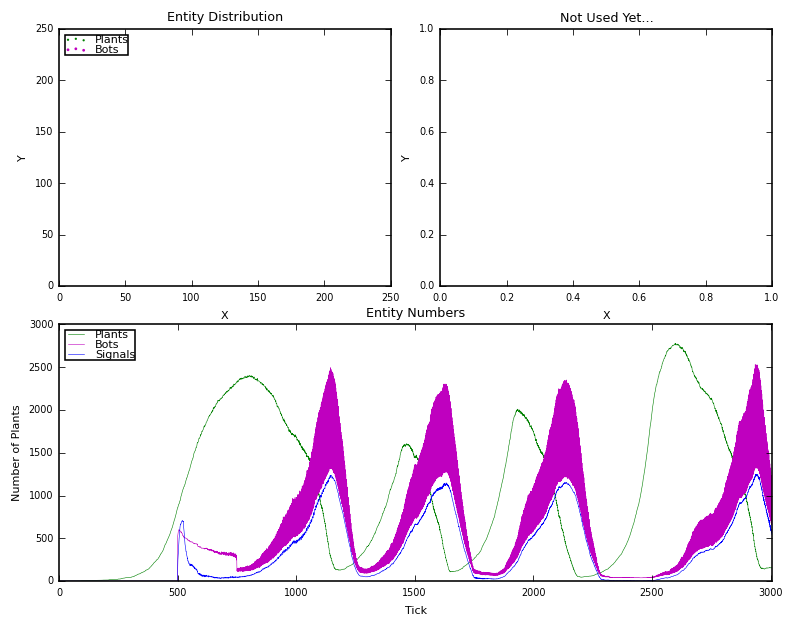
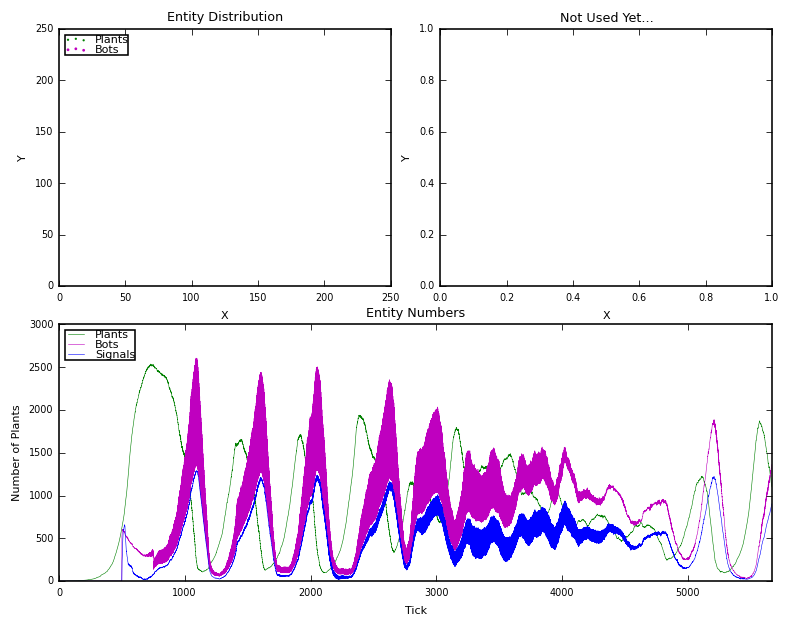
Color Coded Signals and Simulation Pausing
Signals can now take a color argument.
The simulation can now be paused with the spacebar.

diff --git a/simulation.py b/simulation.py
@@ -410,41 +410,44 @@ class GraphicalSimulation:
                 self.world.add_entity(Bot(self.world.half_boundaries[0], self.world.half_boundaries[1], 250, behavior))
             else:
                 self.world.add_entity(Bot(screen_width//2, screen_height//2, 250, behavior))
+        paused = False
+        # TODO: Account for paused time in the SimulationData results
         while running:
             for event in pygame.event.get():
                 if event.type == pygame.QUIT:
                     running = 0
                 elif event.type == pygame.KEYDOWN and event.key == pygame.K_ESCAPE:
                     running = 0
+                elif event.type == pygame.KEYDOWN and event.key == pygame.K_SPACE:
+                    paused = False if paused else True
             screen.fill((0, 0, 0))
             # Update the world
-            self.world.step()
-            # Collect Data if enabled
-            if sim_data:
-                sim_data.poll_world_for_data()
-            # Draw the plants and bots
-            pixels = pygame.surfarray.pixels3d(screen)
-            for entity_list, color in [(self.world.plants, (40, 200, 40)), (self.world.bots, (150, 40, 150))]:
-                for entity in entity_list:
-                    if 0 <= entity.x < screen_width and 0 <= entity.y < screen_height:
-                        pixels[entity.x][entity.y] = color
-                    # pygame.draw.ellipse(screen, color, (x, y, 1, 1))
-            del pixels
-            screen.lock()
-            for signal in self.world.signals:
-                diameter = signal.diameter
-                left = signal.x - (diameter/2)
-                top = signal.y - (diameter/2)
-                signal_color = (40, 50, 200)
-                if isinstance(signal, StaticSignal):
-                    signal_color = (100, 130, 250)
-                pygame.draw.ellipse(screen, signal_color, (left, top, diameter, diameter), 1)
-            screen.unlock()
-            if scale > 1:
-                pygame.transform.scale(screen, (window_width, window_height), window)
-            else:
-                window.blit(screen, (0, 0))
-            tick += 1
+            if not paused:
+                self.world.step()
+                # Collect Data if enabled
+                if sim_data:
+                    sim_data.poll_world_for_data()
+                # Draw the plants and bots
+                pixels = pygame.surfarray.pixels3d(screen)
+                for entity_list, color in [(self.world.plants, (40, 200, 40)), (self.world.bots, (150, 40, 150))]:
+                    for entity in entity_list:
+                        if 0 <= entity.x < screen_width and 0 <= entity.y < screen_height:
+                            pixels[entity.x][entity.y] = color
+                        # pygame.draw.ellipse(screen, color, (x, y, 1, 1))
+                del pixels
+                screen.lock()
+                for signal in self.world.signals:
+                    diameter = signal.diameter
+                    left = signal.x - (diameter/2)
+                    top = signal.y - (diameter/2)
+                    signal_color = signal.color if signal.color else (75, 75, 75)
+                    pygame.draw.ellipse(screen, signal_color, (left, top, diameter, diameter), 1)
+                screen.unlock()
+                if scale > 1:
+                    pygame.transform.scale(screen, (window_width, window_height), window)
+                else:
+                    window.blit(screen, (0, 0))
+                tick += 1
             pygame.display.update()
             self.clock.tick(fps)
             # If we have no more entities then end the simulation
@@ -467,4 +470,5 @@ def run_simulation(world, plant_growth_ticks, additional_ticks, graphics=False, 
 if __name__ == '__main__':
     print("Starting Simulation...")
     earth = World(boundary_sizes=(250, 250), energy_pool=100000)
+    # TODO: Create a Simulation and SimulationParameters class
     run_simulation(earth, 500, 5000, graphics=True, fps=60, scale=2, random_bots=True)

diff --git a/sim_entities.py b/sim_entities.py
@@ -86,7 +86,7 @@ class Bot(BaseSimulationEntity):
     @statement
     def launch_signal(bot):
         # TODO: Make signal creation not require passing 0 and setting energy with a World method
-        bot.signal = MobileSignal(bot.x, bot.y, np.random.ranf()*2*math.pi, 0, bot)
+        bot.signal = MobileSignal(bot.x, bot.y, np.random.ranf()*2*math.pi, 0, bot, color=(60, 60, 190))
         bot.world.transfer_energy_between_entities(10, donor=bot, recipient=bot.signal)
 
     @staticmethod
@@ -134,7 +134,7 @@ class Bot(BaseSimulationEntity):
     def eat_nearby_plants(bot):
         if bot.signal:
             bot.signal.dead = True
-        bot.signal = StaticSignal(bot.x, bot.y, 0, bot)
+        bot.signal = StaticSignal(bot.x, bot.y, 0, bot, color=(120, 240, 130))
         bot.world.transfer_energy_between_entities(3, donor=bot, recipient=bot.signal)
         bot.signal.step()
         if bot.signal.detected_objects:
@@ -193,13 +193,14 @@ class Plant(BaseSimulationEntity):
 class Signal(BaseSimulationEntity):
     counter = 0
 
-    def __init__(self, x, y, energy, owner, name=None):
+    def __init__(self, x, y, energy, owner, name=None, color=None):
         super().__init__(x, y, energy)
         self.owner = owner
         self.world = owner.world
         self.detected_objects = []
         self.diameter = 8
         self.speed = 0
+        self.color = color
         Signal.counter += 1
         if name:
             self.name = name
@@ -223,8 +224,8 @@ class Signal(BaseSimulationEntity):
 
 # TODO: Ingest Static and Mobile Signal into Signal. Let Bots toggle the speed and other properies.
 class StaticSignal(Signal):
-    def __init__(self, x, y, energy, owner, name=None):
-        super().__init__(x, y, energy, owner, name)
+    def __init__(self, x, y, energy, owner, name=None, color=None):
+        super().__init__(x, y, energy, owner, name, color)
         self.speed = 0
         self.diameter = 4
 
@@ -233,8 +234,8 @@ class StaticSignal(Signal):
 
 
 class MobileSignal(Signal):
-    def __init__(self, x, y, radians, energy, owner, name=None):
-        super().__init__(x, y, energy, owner, name)
+    def __init__(self, x, y, radians, energy, owner, name=None, color=None):
+        super().__init__(x, y, energy, owner, name, color)
         self.speed = 2
         self.radians = radians
         self.x_diff = self.speed * math.cos(radians)

diff --git a/extra_nodes.py b/extra_nodes.py
@@ -8,7 +8,7 @@ import math
 
 @statement
 def create_local_signal(bot):
-    bot.signal = StaticSignal(bot.x, bot.y, 0, bot)
+    bot.signal = StaticSignal(bot.x, bot.y, 0, bot, color=(40, 40, 180))
     bot.signal.diameter = 16
     bot.world.transfer_energy_between_entities(2, donor=bot, recipient=bot.signal)
 
@@ -16,7 +16,7 @@ def create_local_signal(bot):
 @statement
 def create_long_range_signal(bot):
     # TODO: Allow bots to store a direction for their signal propagation instead of using a random one
-    bot.signal = MobileSignal(bot.x, bot.y, ranf()*2*math.pi, 0, bot)
+    bot.signal = MobileSignal(bot.x, bot.y, ranf()*2*math.pi, 0, bot, color=(150, 190, 240))
     bot.signal.diameter = 2
     bot.world.transfer_energy_between_entities(25, donor=bot, recipient=bot.signal)
 
@@ -30,7 +30,7 @@ def set_random_target(bot):
 def eat_nearby_bots(bot):
     if bot.signal:
         bot.signal.dead = True
-    bot.signal = StaticSignal(bot.x, bot.y, 0, bot)
+    bot.signal = StaticSignal(bot.x, bot.y, 0, bot, color=(240, 90, 90))
     bot.signal.diameter = 4
     bot.world.transfer_energy_between_entities(2, donor=bot, recipient=bot.signal)
     bot.signal.step()
@@ -66,7 +66,7 @@ def has_signal_found_signal(bot):
 def eat_nearby_signal(bot):
     if bot.signal:
         bot.signal.dead = True
-    bot.signal = StaticSignal(bot.x, bot.y, 0, bot)
+    bot.signal = StaticSignal(bot.x, bot.y, 0, bot, color=(130, 130, 230))
     bot.signal.diameter = 4
     bot.world.transfer_energy_between_entities(2, donor=bot, recipient=bot.signal)
     bot.signal.step()
